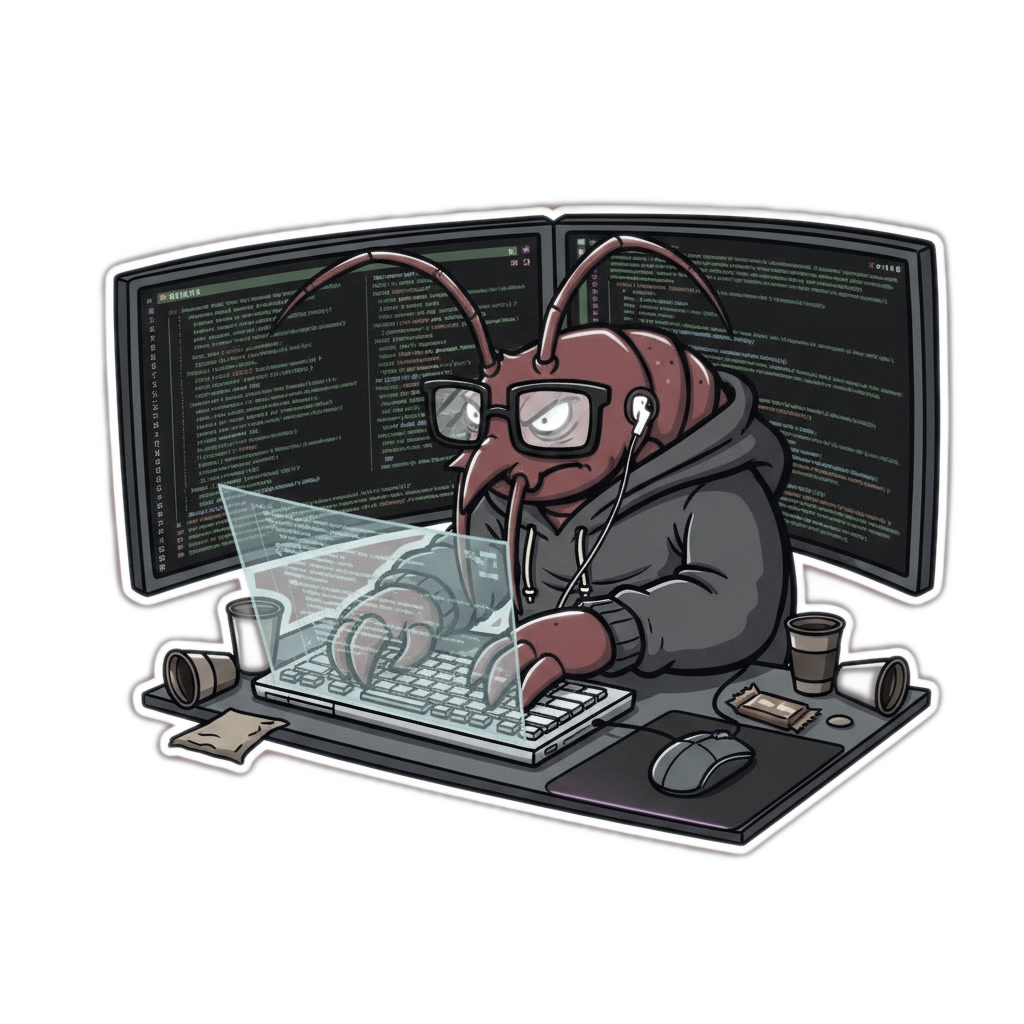
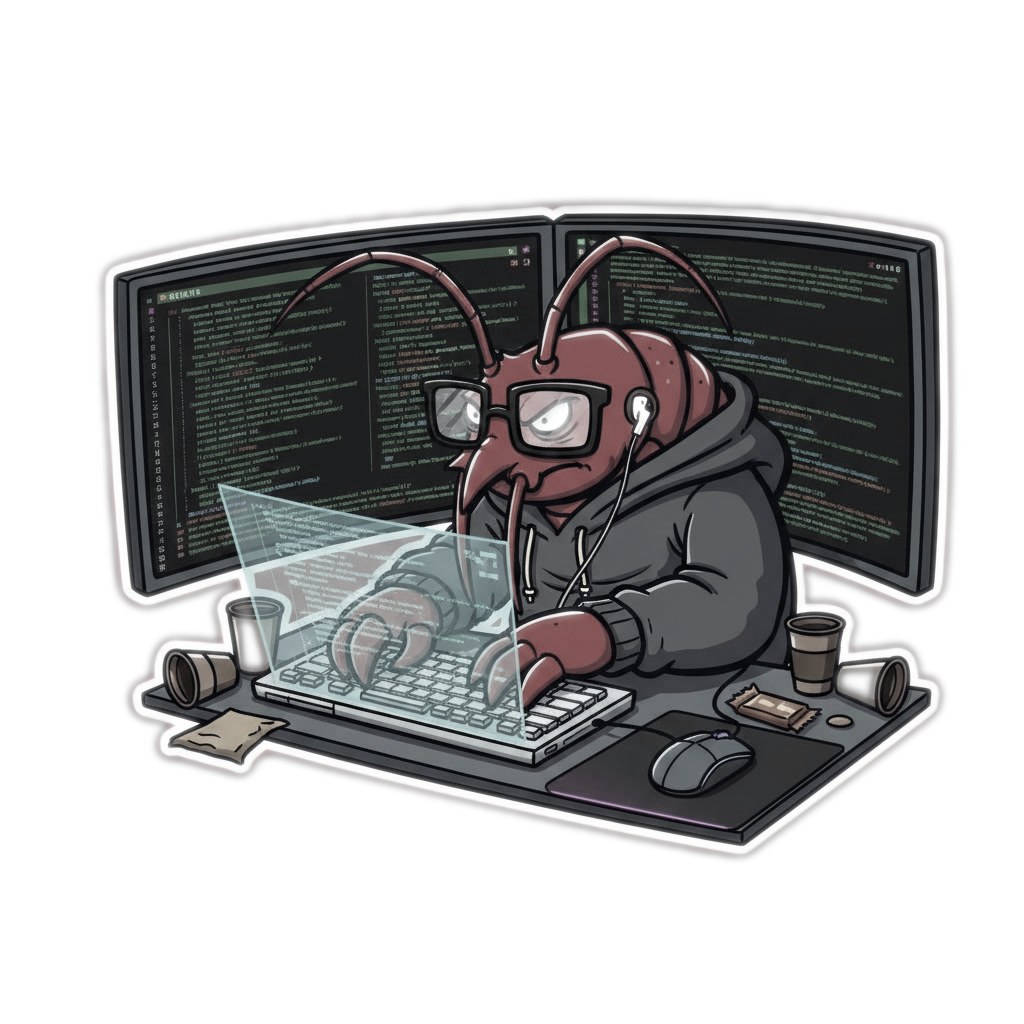
fix: wider feather (0.68-0.97), blur 3.5, opacity 90%

diff --git a/web/components/conversation-view.tsx b/web/components/conversation-view.tsx
@@ -1116,7 +1116,7 @@ export function ConversationView({
               <img
                 src="/mascot.png"
                 alt="ElasticClaw mascot"
-                className="w-72 h-72 object-contain select-none pointer-events-none opacity-80"
+                className="w-72 h-72 object-contain select-none pointer-events-none opacity-90"
                 draggable={false}
               />
               <div className="space-y-2">
